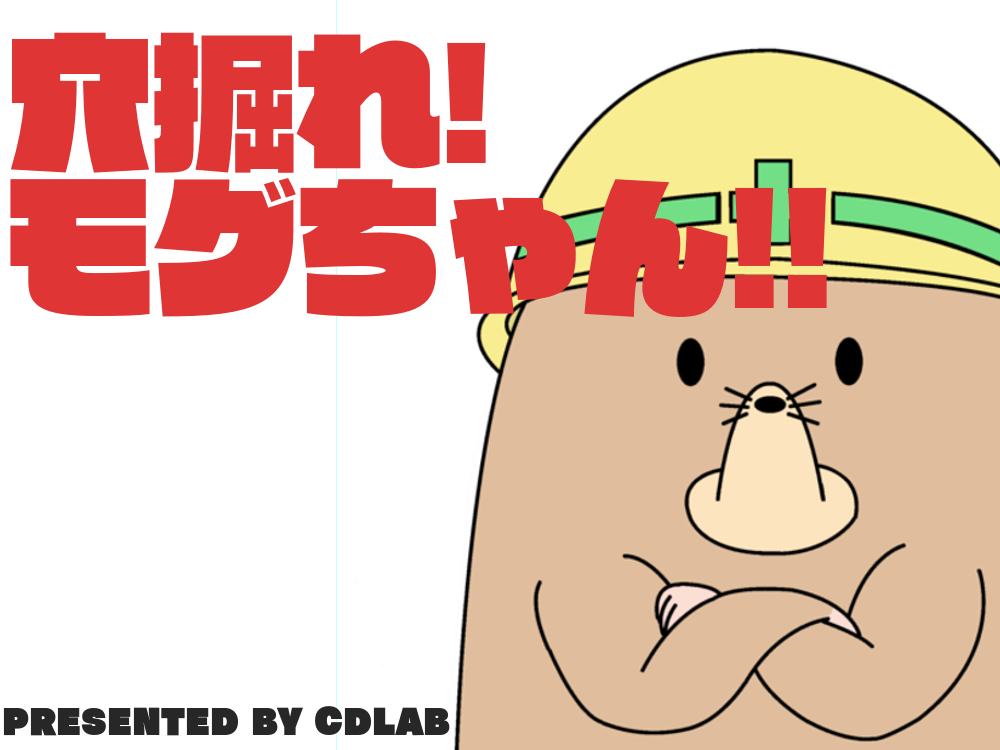
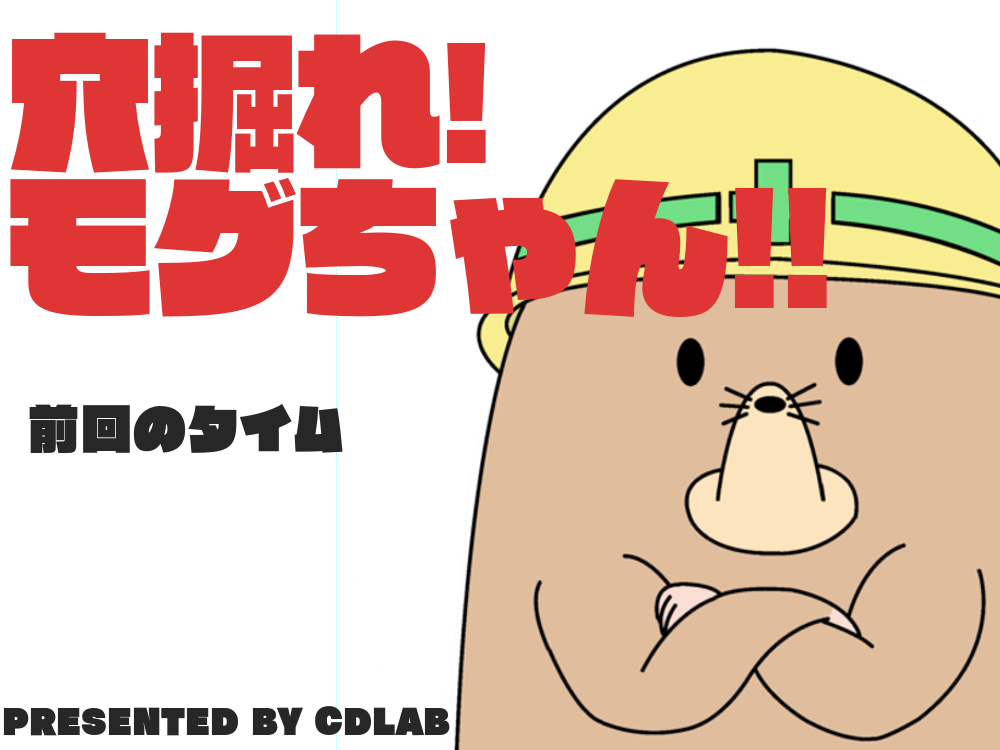
前回のタイムを画像の上に表示

Changed region(s): [[0.031, 0.5213, 0.341, 0.6133]]

diff --git a/design/html-test/menu.html b/design/html-test/menu.html
@@ -6,12 +6,10 @@
     <link rel="stylesheet" href="css/styles.css">
   </head>
   <body>
-    <div id="menu" class="mogumogu">
+    <div style="position: relative;" id="menu" class="mogumogu">
       <img id="menuimg" src="../other-imges/menu.png" alt="menuImage">
+      <div id="timer" style="position:absolute; top:470px; left:30px; width:430px;">00:00:000</div>
     </div>
-
-    <div id="zenkai">前回のタイム</div>
-    <div id="timer">00:00:000</div>
 
     <script type="text/javascript" src="JS/menuSource.js"></script>
   </body>

diff --git a/design/html-test/JS/source.js b/design/html-test/JS/source.js
@@ -80,7 +80,6 @@ const updateTimeText = () => {
 const countUp = () => {
   timerId = setTimeout(() => {
     elapsedTime = Date.now() - startTime;
-    updateTimeText();
     countUp();
   }, 10);
 };

diff --git a/design/html-test/moguchan.html b/design/html-test/moguchan.html
@@ -27,8 +27,6 @@
       </div>
     </div>
 
-    <div id="timer">00:00:000</div>
-
     <script type="text/javascript" src="JS/source.js"></script>
   </body>
 </html>

diff --git a/design/html-test/css/styles.css b/design/html-test/css/styles.css
@@ -1,6 +1,8 @@
 @charset "UTF-8";
 
 .mogumogu{
+  font-size: 50px;
+  font-weight: 900;
   cursor: pointer;
 }
 
